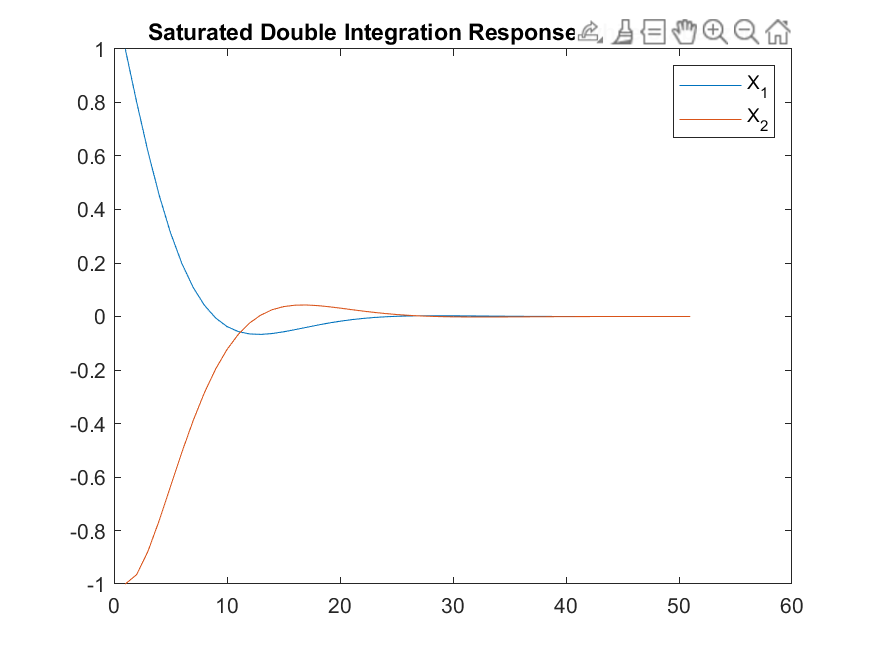
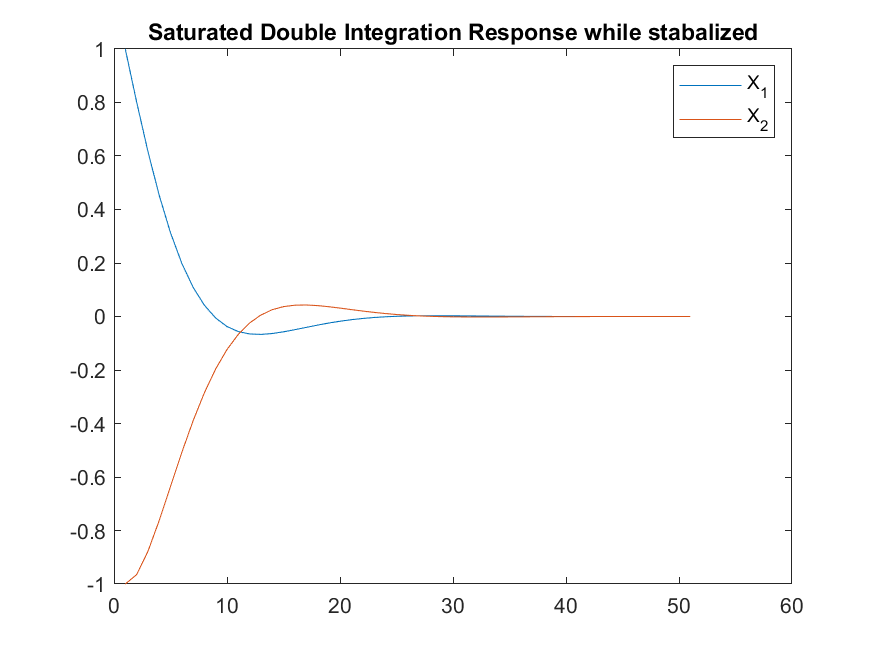
made the filesaving system more robust

Changed region(s): [[0.648, 0.0305, 0.9257, 0.0915]]

diff --git a/simulink_in_code_template.m b/simulink_in_code_template.m
@@ -20,7 +20,8 @@ simulateModel = true;
 plotResults = true;
 
 % Name of the simulink model
-subfolder = ''; %include / at end
+[cfolder,~,~] = fileparts(mfilename('fullpath'));
+subfolder = ''; %include / at end of subfolder
 fname = 'sim_model_default';
 
 
@@ -111,9 +112,9 @@ add_line(gcs, 'LTI_sys/1', 'Out/1');
 Simulink.BlockDiagram.arrangeSystem(gcs) %Auto Arrange
 
 %% Save and Open System
-save_system(gcs,[subfolder, fname]);
+save_system(gcs,[cfolder, '\', subfolder, fname]);
 print(['-s', gcs], '-dpng',... % Print model to figure
-    [pwd, '\', subfolder, 'fig\', 'pblm3_c_model.png'])
+    [cfolder, '\' subfolder, 'fig\', 'sim_model_default.png'])
 
 end
 if openModel
@@ -137,6 +138,6 @@ hold on
 plot(Xout(:,2))
 legend('X_1', 'X_2')
 title('Saturated Double Integration Response while stabalized')
-saveas(fig, [pwd, '\', subfolder, 'fig\', 'StateResponse.png'])
+saveas(fig, [cfolder, '\',subfolder, 'fig\', 'StateResponse.png'])
 end
 
